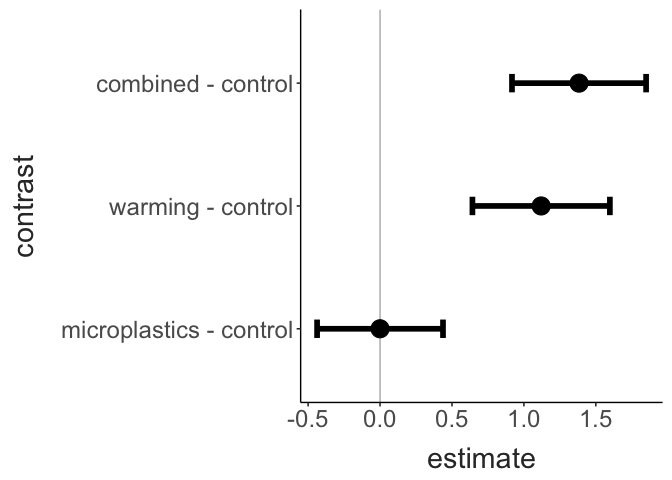
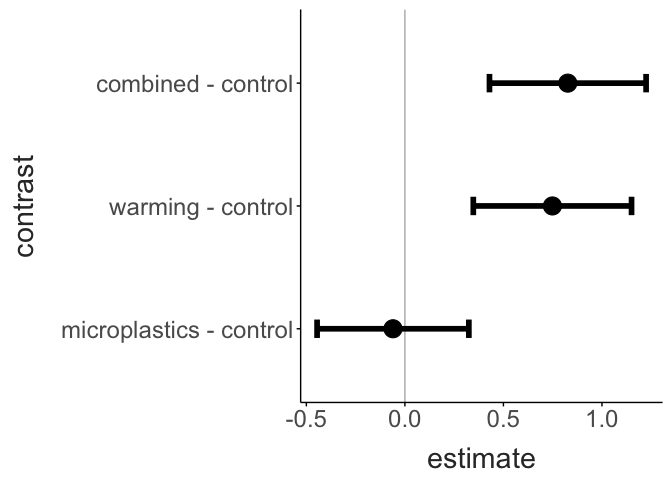
Updating report with additional data

diff --git a/Output/Reports/report.md b/Output/Reports/report.md
@@ -1,6 +1,6 @@
 *Skistodiaptomus pallidus* Temperature and Microplastics (STAMP)
 ================
-2026-08-17
+2026-10-14
 
 - [Initial Replicate](#initial-replicate)
 - [Experimental Data](#experimental-data)
@@ -23,14 +23,14 @@ prelim_data %>%
   theme_matt()
 ```
 
-<img src="../Figures/markdown/prelim-boxplots-1.png" alt="" style="display: block; margin: auto;" />
+<img src="../Figures/markdown/prelim-boxplots-1.png" style="display: block; margin: auto;" />
 
 ## Experimental Data
 
 ``` r
 
 ctmax_data %>% 
-  ggplot(aes(x = treatment, y = ctmax)) + 
+  ggplot(aes(x = treatment, y = ctmax)) +
   geom_boxplot() +
   geom_point() + 
   labs(x = "Treatment", 
@@ -38,7 +38,7 @@ ctmax_data %>%
   theme_matt()
 ```
 
-<img src="../Figures/markdown/ctmax-boxplots-1.png" alt="" style="display: block; margin: auto;" />
+<img src="../Figures/markdown/ctmax-boxplots-1.png" style="display: block; margin: auto;" />
 
 ``` r
 
@@ -50,33 +50,33 @@ summary(ctmax.model)
 ## Formula: ctmax ~ treatment + (1 | tube) + (1 | assay_num)
 ##    Data: ctmax_data
 ## 
-## REML criterion at convergence: 49.9
+## REML criterion at convergence: 133.4
 ## 
 ## Scaled residuals: 
-##      Min       1Q   Median       3Q      Max 
-## -2.26998 -0.47646 -0.04729  0.47882  1.56061 
+##     Min      1Q  Median      3Q     Max 
+## -2.2432 -0.4869  0.1099  0.6400  2.1026 
 ## 
 ## Random effects:
 ##  Groups    Name        Variance Std.Dev.
 ##  tube      (Intercept) 0.0000   0.0000  
-##  assay_num (Intercept) 0.0000   0.0000  
-##  Residual              0.4968   0.7049  
-## Number of obs: 24, groups:  tube, 9; assay_num, 4
+##  assay_num (Intercept) 0.2244   0.4737  
+##  Residual              0.7802   0.8833  
+## Number of obs: 49, groups:  tube, 9; assay_num, 8
 ## 
 ## Fixed effects:
-##                          Estimate Std. Error         df t value Pr(>|t|)    
-## (Intercept)             3.760e+01  2.878e-01  2.000e+01 130.667  < 2e-16 ***
-## treatmentmicroplastics -3.849e-14  3.921e-01  2.000e+01   0.000  1.00000    
-## treatmentwarming        1.120e+00  4.268e-01  2.000e+01   2.624  0.01625 *  
-## treatmentcombined       1.383e+00  4.069e-01  2.000e+01   3.399  0.00285 ** 
+##                        Estimate Std. Error       df t value Pr(>|t|)    
+## (Intercept)            37.37359    0.31933 25.73064 117.038   <2e-16 ***
+## treatmentmicroplastics -0.06046    0.35809 38.48252  -0.169   0.8668    
+## treatmentwarming        0.74867    0.38270 39.49299   1.956   0.0575 .  
+## treatmentcombined       0.82664    0.36916 40.01045   2.239   0.0308 *  
 ## ---
 ## Signif. codes:  0 '***' 0.001 '**' 0.01 '*' 0.05 '.' 0.1 ' ' 1
 ## 
 ## Correlation of Fixed Effects:
 ##             (Intr) trtmntm trtmntw
-## trtmntmcrpl -0.734                
-## trtmntwrmng -0.674  0.495         
-## trtmntcmbnd -0.707  0.519   0.477 
+## trtmntmcrpl -0.637                
+## trtmntwrmng -0.598  0.524         
+## trtmntcmbnd -0.626  0.546   0.530 
 ## optimizer (nloptwrap) convergence code: 0 (OK)
 ## boundary (singular) fit: see help('isSingular')
 
@@ -85,8 +85,8 @@ car::Anova(ctmax.model, type = "III")
 ## 
 ## Response: ctmax
 ##                 Chisq Df Pr(>Chisq)    
-## (Intercept) 17073.823  1  < 2.2e-16 ***
-## treatment      19.531  3  0.0002123 ***
+## (Intercept) 13697.881  1    < 2e-16 ***
+## treatment      10.155  3    0.01729 *  
 ## ---
 ## Signif. codes:  0 '***' 0.001 '**' 0.01 '*' 0.05 '.' 0.1 ' ' 1
 ```
@@ -95,14 +95,14 @@ car::Anova(ctmax.model, type = "III")
 
 emmeans(ctmax.model, ~treatment) |> pairs() |> as_tibble()
 ## # A tibble: 6 × 6
-##   contrast                  estimate    SE    df   t.ratio p.value
-##   <chr>                        <dbl> <dbl> <dbl>     <dbl>   <dbl>
-## 1 control - microplastics   3.85e-14 0.438  17.3  8.80e-14  1     
-## 2 control - warming        -1.12e+ 0 0.478  18.1 -2.34e+ 0  0.125 
-## 3 control - combined       -1.38e+ 0 0.466  18.2 -2.97e+ 0  0.0374
-## 4 microplastics - warming  -1.12e+ 0 0.452  18.1 -2.48e+ 0  0.0973
-## 5 microplastics - combined -1.38e+ 0 0.433  18.3 -3.19e+ 0  0.0234
-## 6 warming - combined       -2.63e- 1 0.466  16.2 -5.65e- 1  0.941
+##   contrast                 estimate    SE    df t.ratio p.value
+##   <chr>                       <dbl> <dbl> <dbl>   <dbl>   <dbl>
+## 1 control - microplastics    0.0605 0.385  36.9   0.157  0.999 
+## 2 control - warming         -0.749  0.401  39.3  -1.86   0.260 
+## 3 control - combined        -0.827  0.397  38.3  -2.08   0.178 
+## 4 microplastics - warming   -0.809  0.377  39.3  -2.14   0.157 
+## 5 microplastics - combined  -0.887  0.354  35.5  -2.50   0.0764
+## 6 warming - combined        -0.0780 0.375  37.2  -0.208  0.997
 ```
 
 ``` r
@@ -112,7 +112,7 @@ contrasts = emmeans(ctmax.model, ~treatment) |> contrast(method = "trt.vs.ctrl")
                                 "microplastics - control",
                                 "warming - control", 
                                 "combined - control"))
-  
+
 contrasts |> 
   ggplot(aes(x = contrast, y = estimate)) +
   geom_hline(yintercept = 0, colour = "grey") + 
@@ -123,4 +123,4 @@ contrasts |>
   theme_matt()
 ```
 
-<img src="../Figures/markdown/control-contrast-plot-1.png" alt="" style="display: block; margin: auto;" />
+<img src="../Figures/markdown/control-contrast-plot-1.png" style="display: block; margin: auto;" />
